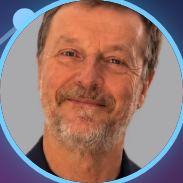
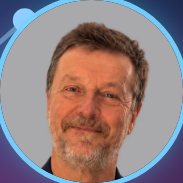
Prefix cartoon/blog titles, expand Videos copy, tune portrait crop
Add Cartoon:/Blog: title prefixes, describe Videos from repo-sourced
kinds of work, and set print portrait crop to ~1.8× with full head
visible and shoulders just in frame.

diff --git a/cv-source/src/print/print-styles.css b/cv-source/src/print/print-styles.css
@@ -230,18 +230,18 @@ a.pv-deep-on-dark {
 }
 .pvn-photo img {
   /*
-   * Square asset fills the circle at 100%. Enlarge and shift so the
-   * visible window is the head: hair near the top rim, chin ~75% down.
+   * ~1.8× zoom: whole head with a small margin under the rim,
+   * shoulders just visible at the bottom (between prior 1.45× / 2.2×).
    */
   position: absolute;
-  width: 220%;
-  height: 220%;
+  width: 180%;
+  height: 180%;
   max-width: none;
   left: 50%;
-  top: 64%;
+  top: 78%;
   transform: translate(-50%, -50%);
   object-fit: cover;
-  object-position: 50% 18%;
+  object-position: 50% 20%;
   display: block;
 }
 .pvn-sub { margin: 0.6mm 0 0; font-size: 8.5pt; color: rgba(255,255,255,.88); text-align: left; }
@@ -345,18 +345,18 @@ a.pvn-qr:hover { color: inherit; }
 }
 .pvo-photo img {
   /*
-   * Square asset fills the circle at 100%. Enlarge and shift so the
-   * visible window is the head: hair near the top rim, chin ~75% down.
+   * ~1.8× zoom: whole head with a small margin under the rim,
+   * shoulders just visible at the bottom (between prior 1.45× / 2.2×).
    */
   position: absolute;
-  width: 220%;
-  height: 220%;
+  width: 180%;
+  height: 180%;
   max-width: none;
   left: 50%;
-  top: 64%;
+  top: 78%;
   transform: translate(-50%, -50%);
   object-fit: cover;
-  object-position: 50% 18%;
+  object-position: 50% 20%;
   display: block;
 }
 .pvo-block h2 {

diff --git a/cv-source/content/videos-portfolio.md b/cv-source/content/videos-portfolio.md
@@ -19,4 +19,5 @@ topics:
 ---
 ## Videos
 
-- Sample: DB48X playlist; Theory of Incomplete Measurements channel
+- I have been using videos to share my work for more than 15 years
+- DB48X calculator demos and tutorials, Theory of Incomplete Measurements physics explainers, Tao3D presentations, and conference talks (including FOSDEM)

diff --git a/cv-source/content/hpvm-cartoon-virtualdenise.md b/cv-source/content/hpvm-cartoon-virtualdenise.md
@@ -1,6 +1,6 @@
 ---
 id: hpvm-cartoon-virtualdenise
-title: High availability management
+title: 'Cartoon: High availability management'
 theme: Systems & Virtualization
 years: 2000-2010
 weight: 3

diff --git a/cv-source/content/ecu-cartoon-yesterdays.md b/cv-source/content/ecu-cartoon-yesterdays.md
@@ -1,6 +1,6 @@
 ---
 id: ecu-cartoon-yesterdays
-title: Ever changing product structure
+title: 'Cartoon: Ever changing product structure'
 theme: Communication Skills
 years: 1994-1998
 weight: 3

diff --git a/cv-source/content/ecu-cartoon-venturi.md b/cv-source/content/ecu-cartoon-venturi.md
@@ -1,6 +1,6 @@
 ---
 id: ecu-cartoon-venturi
-title: Yes, it's a bit slow to start
+title: 'Cartoon: Yes, it''s a bit slow to start'
 theme: Communication Skills
 years: 1994-1998
 weight: 3

diff --git a/cv-source/content/ecu-cartoon-dontcare.md b/cv-source/content/ecu-cartoon-dontcare.md
@@ -1,6 +1,6 @@
 ---
 id: ecu-cartoon-dontcare
-title: Marketing needs not care
+title: 'Cartoon: Marketing needs not care'
 theme: Communication Skills
 years: 1994-1998
 weight: 3

diff --git a/cv-source/content/hpvm-cartoon-ogm.md b/cv-source/content/hpvm-cartoon-ogm.md
@@ -1,6 +1,6 @@
 ---
 id: hpvm-cartoon-ogm
-title: What does OGM stand for?
+title: 'Cartoon: What does OGM stand for?'
 theme: Systems & Virtualization
 years: 2000-2010
 weight: 3

diff --git a/cv-source/content/hpvm-cartoon-booted.md b/cv-source/content/hpvm-cartoon-booted.md
@@ -1,6 +1,6 @@
 ---
 id: hpvm-cartoon-booted
-title: First boot, first burp
+title: 'Cartoon: First boot, first burp'
 theme: Systems & Virtualization
 years: 2000-2010
 weight: 3

diff --git a/cv-source/content/ecu-cartoon-injectors.md b/cv-source/content/ecu-cartoon-injectors.md
@@ -1,6 +1,6 @@
 ---
 id: ecu-cartoon-injectors
-title: Customers know best
+title: 'Cartoon: Customers know best'
 theme: Communication Skills
 years: 1994-1998
 weight: 3

diff --git a/cv-source/content/grenouille-bouillie.md b/cv-source/content/grenouille-bouillie.md
@@ -1,6 +1,6 @@
 ---
 id: grenouille-bouillie
-title: Grenouille Bouillie
+title: 'Blog: Grenouille Bouillie'
 theme: Communication Skills
 years: 2003-Present
 weight: 6

diff --git a/cv-source/content/ecu-cartoon-fuses.md b/cv-source/content/ecu-cartoon-fuses.md
@@ -1,6 +1,6 @@
 ---
 id: ecu-cartoon-fuses
-title: Software that blows
+title: 'Cartoon: Software that blows'
 theme: Communication Skills
 years: 1994-1998
 weight: 3

diff --git a/cv-source/content/hpvm-cartoon-stress.md b/cv-source/content/hpvm-cartoon-stress.md
@@ -1,6 +1,6 @@
 ---
 id: hpvm-cartoon-stress
-title: Stress testing
+title: 'Cartoon: Stress testing'
 theme: Systems & Virtualization
 years: 2000-2010
 weight: 3
